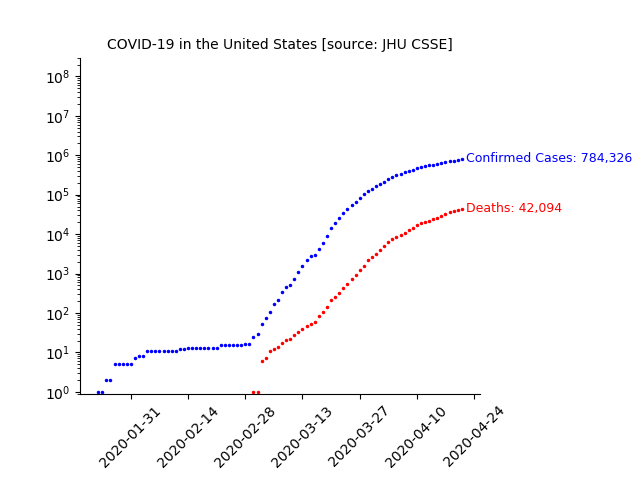
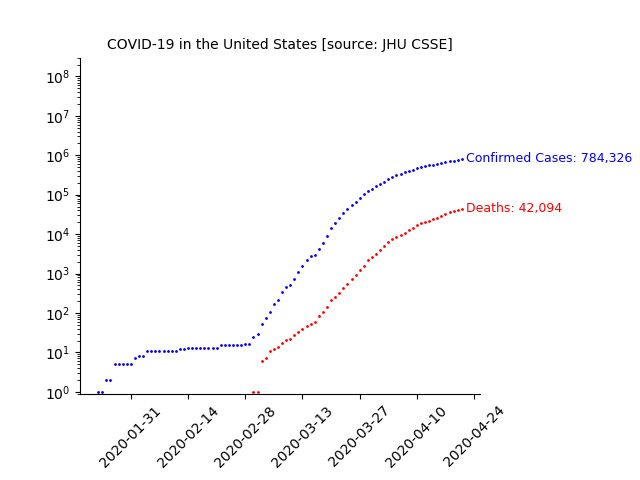
2020-04-21 updates

diff --git a/plot_us.py b/plot_us.py
@@ -19,11 +19,11 @@ for ii in us_confirmed.columns[11:]:
 # plot country comparisons
 fig, ax = plt.subplots()
 
-plt.semilogy(dates[np.where(cases_us>0)[0][0]:], cases_us[cases_us>0], 'b.', ms=3)
+plt.semilogy(dates[np.where(cases_us>0)[0][0]:], cases_us[cases_us>0], 'b.', ms=2)
 ax.annotate('Confirmed Cases: {:,}'.format(cases_us[-1]), (dates[-1]+dt.timedelta(days=1),
     0.85*cases_us[-1]), color='blue', fontsize=9)
 
-plt.semilogy(dates[np.where(deaths_us>0)[0][0]:], deaths_us[deaths_us>0], 'r.', ms=3)
+plt.semilogy(dates[np.where(deaths_us>0)[0][0]:], deaths_us[deaths_us>0], 'r.', ms=2)
 ax.annotate('Deaths: {:,}'.format(deaths_us[-1]), (dates[-1]+dt.timedelta(days=1),
     0.85*deaths_us[-1]), color='red', fontsize=9)
 
